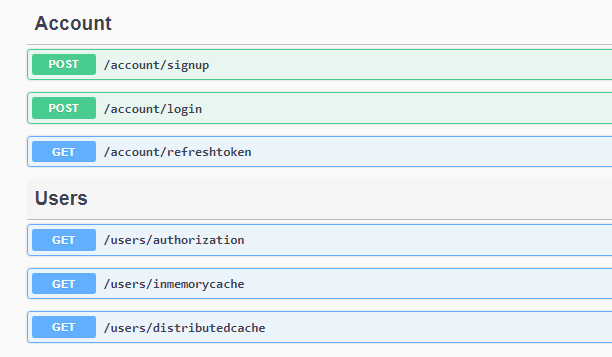
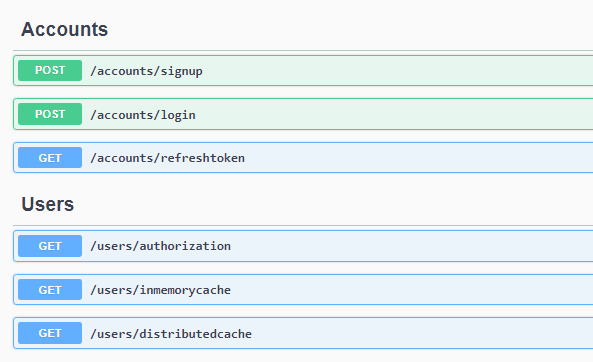
Endpoints updated.

Changed region(s): [[0.0304, 0.0308, 1.0, 0.493], [0.0304, 0.6162, 1.0, 0.986], [0.0304, 0.5238, 0.1518, 0.5854]]

diff --git a/TP.Net.Hw4.WebApi/Controllers/AccountsController.cs b/TP.Net.Hw4.WebApi/Controllers/AccountsController.cs
@@ -9,16 +9,16 @@ using TP.Net.Hw4.Infrastructure.Persistence.Context;
 
 namespace TP.Net.Hw4.WebApi.Controllers
 {
-    [Route("/account")]
+    [Route("/accounts")]
     [ApiController]
-    public class AccountController : ControllerBase
+    public class AccountsController : ControllerBase
     {
         private readonly ITokenGenerator _tokenGenerator;
         private readonly UserManager<User> _userManager;
         private readonly SignInManager<User> _signInManager;
         private readonly SocialNetworkDbContext _context;
 
-        public AccountController(ITokenGenerator tokenGenerator,UserManager<User> userManager,SignInManager<User> signInManager,SocialNetworkDbContext context)
+        public AccountsController(ITokenGenerator tokenGenerator,UserManager<User> userManager,SignInManager<User> signInManager,SocialNetworkDbContext context)
         {
             _tokenGenerator = tokenGenerator;
             _userManager = userManager;
